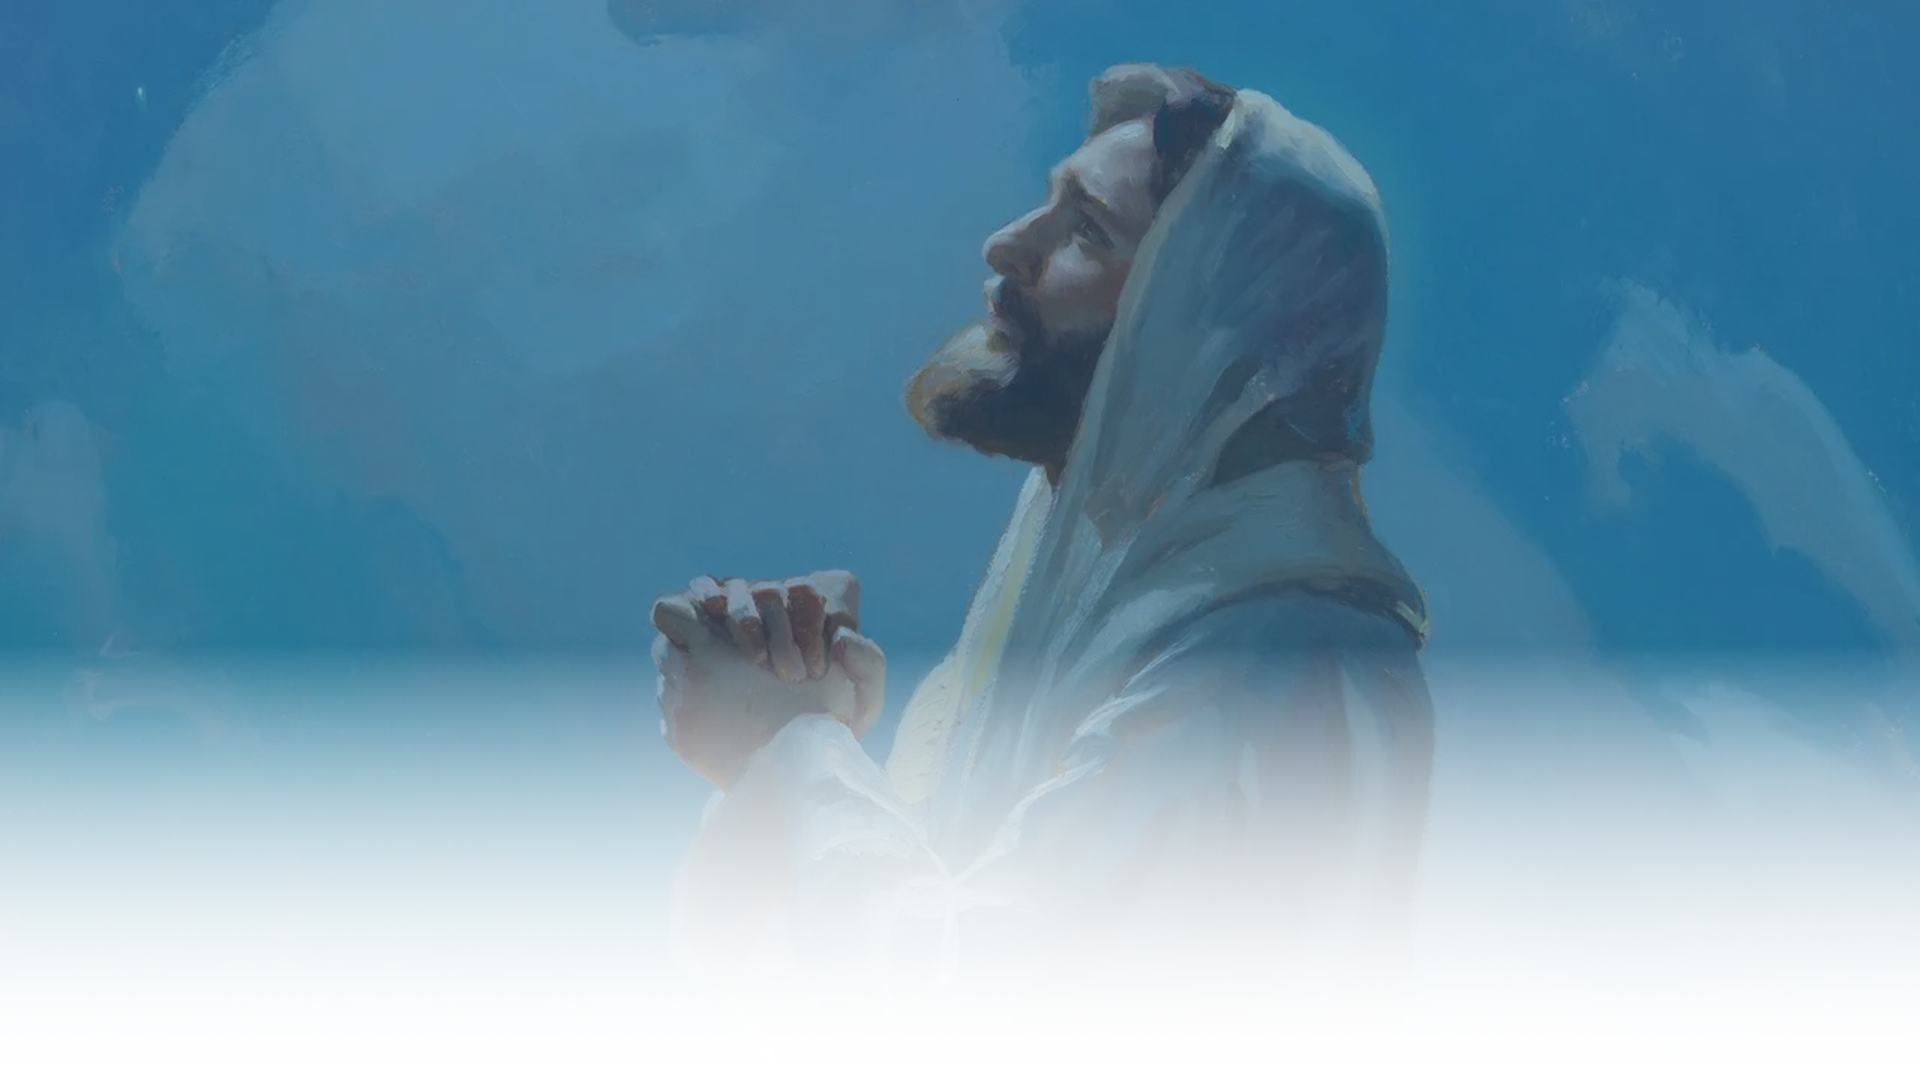
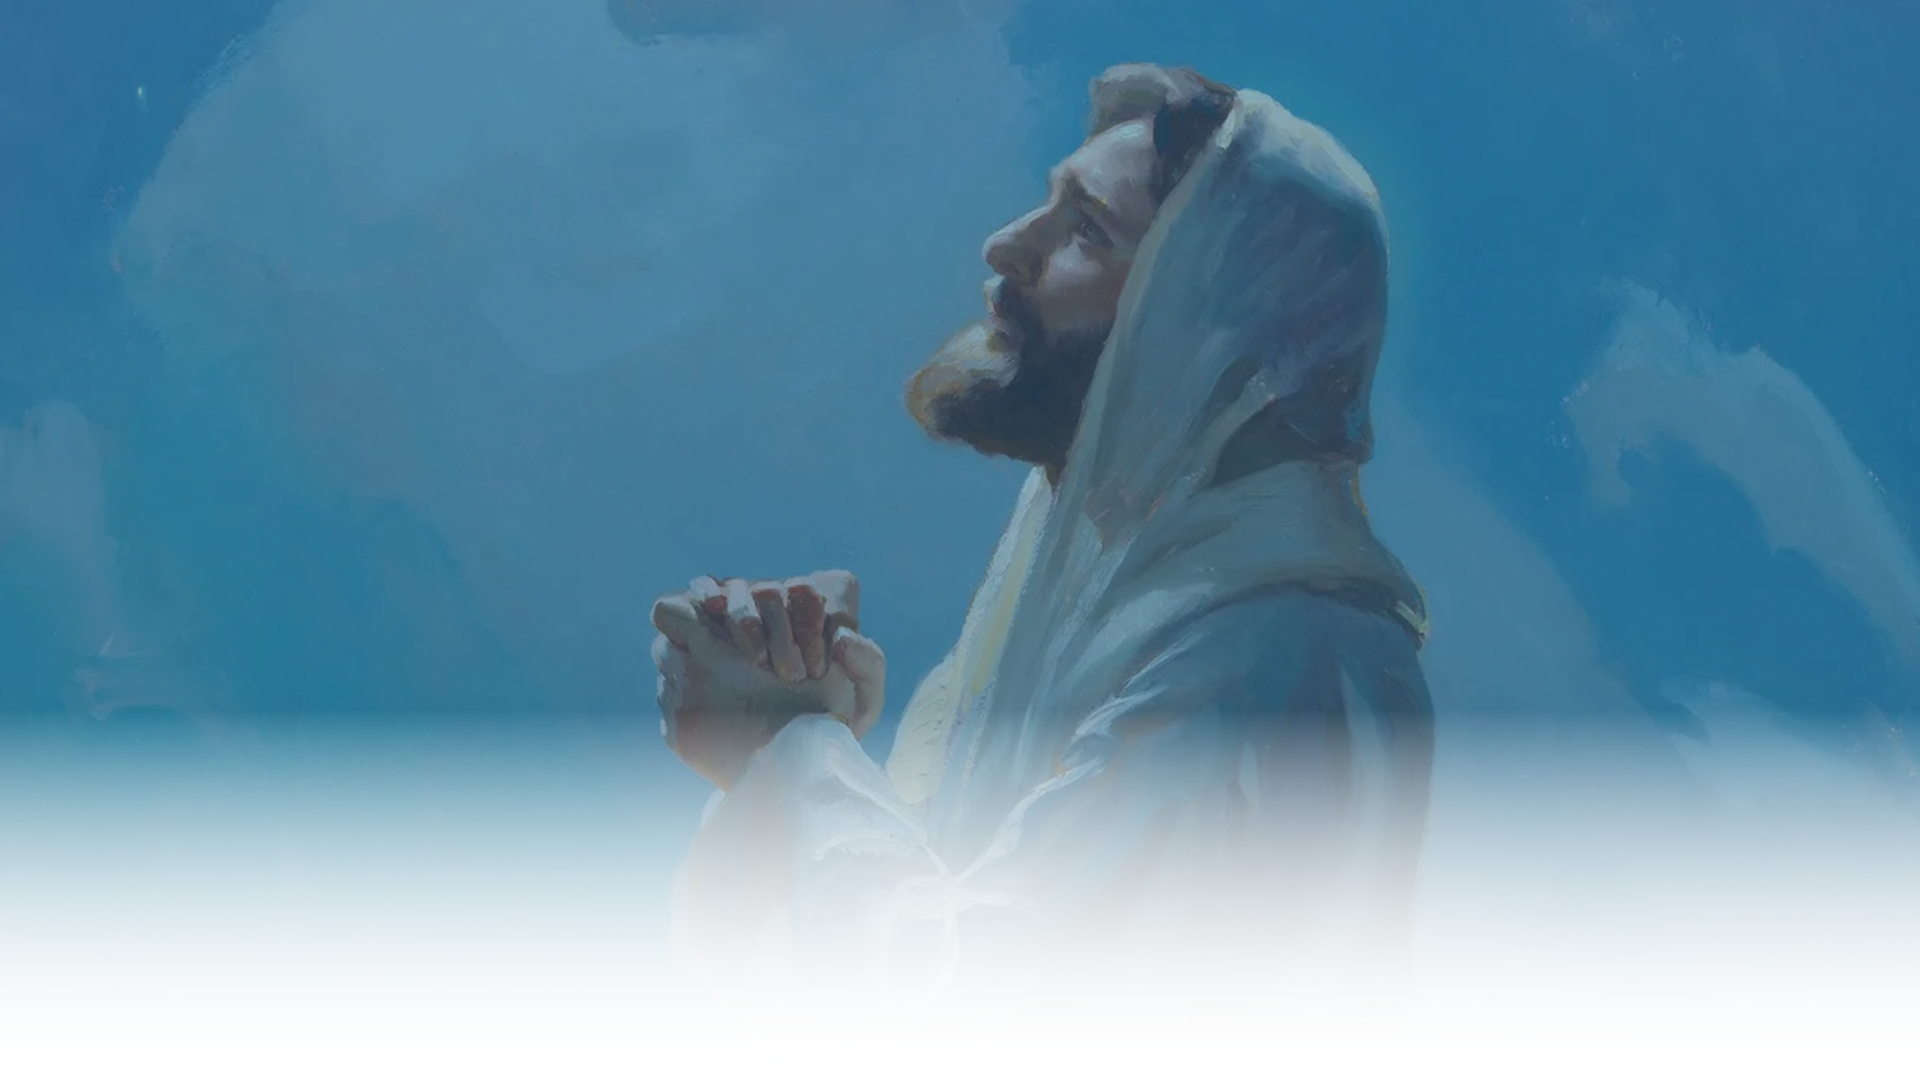
boton wsp agregado a index

Changed region(s): [[0.0, 0.6111, 1.0, 0.7944]]

diff --git a/index.html b/index.html
@@ -39,9 +39,7 @@
     <link rel="stylesheet" href="styles.css">
     ========================================================================
   -->
-  <style>
 
-  </style>
 </head>
 <body class="bg-slate-50 text-slate-800 font-sans min-h-screen flex flex-col justify-between">
 
@@ -106,10 +104,10 @@
       <a href="#" class="mobile-link text-amber-300 flex items-center gap-3">
         <span>Inicio</span>
       </a>
-      <a href="#seminario" class="mobile-link hover:text-amber-300 transition-colors flex items-center gap-3">
+      <a href="seminario.html" class="mobile-link hover:text-amber-300 transition-colors flex items-center gap-3">
         <span>Seminarios (14-17)</span>
       </a>
-      <a href="#instituto" class="mobile-link hover:text-amber-300 transition-colors flex items-center gap-3">
+      <a href="instituto.html" class="mobile-link hover:text-amber-300 transition-colors flex items-center gap-3">
         <span>Institutos (18-35)</span>
       </a>
       <a href="recursos.html" class="mobile-link hover:text-amber-300 transition-colors flex items-center gap-3">
@@ -126,6 +124,36 @@
       <p class="mt-1">Área Sudamérica Sur</p>
     </div>
   </aside>
+
+    <!-- 
+    ========================================================================
+    COMPONENTE: Boton de WHATSAPP
+    ========================================================================
+  -->
+
+  
+<a href="https://wa.me/5491122520286?text=Hola, quisiera más información acerca de los cursos de  Seminario e Insitituto" 
+     target="_blank" 
+     rel="noopener noreferrer" 
+     aria-label="Contactar por WhatsApp" 
+     class="fixed bottom-6 right-6 z-50 flex items-center justify-center w-14 h-14 bg-emerald-500 hover:bg-emerald-600 text-white rounded-full shadow-lg shadow-emerald-500/30 hover:shadow-emerald-500/60 hover:scale-110 active:scale-95 transition-all duration-300 group">
+    
+    <!-- Anillo con efecto pulso de fondo -->
+    <span class="absolute inline-flex h-full w-full rounded-full bg-emerald-400 opacity-30 group-hover:animate-ping"></span>
+
+    <!-- Icono de WhatsApp -->
+    <svg class="w-7 h-7 fill-current relative z-10" viewBox="0 0 24 24">
+      <path d="M.057 24l1.687-6.163c-1.041-1.804-1.588-3.849-1.587-5.946.003-6.556 5.338-11.891 11.893-11.891 3.181.001 6.167 1.24 8.413 3.488 2.245 2.248 3.481 5.236 3.48 8.414-.003 6.557-5.338 11.892-11.893 11.892-1.99-.001-3.951-.5-5.688-1.448l-6.305 1.654zm6.597-3.807c1.676.995 3.276 1.591 5.392 1.592 5.448 0 9.886-4.434 9.889-9.885.002-5.462-4.415-9.89-9.881-9.892-5.452 0-9.887 4.434-9.889 9.884-.001 2.225.651 3.891 1.746 5.634l-.999 3.648 3.742-.981zm11.387-5.464c-.074-.124-.272-.198-.57-.347-.297-.149-1.758-.868-2.031-.967-.272-.099-.47-.149-.669.149-.198.297-.768.967-.941 1.165-.173.198-.347.223-.644.074-.297-.149-1.255-.462-2.39-1.475-.883-.788-1.48-1.761-1.653-2.059-.173-.297-.018-.458.13-.606.134-.133.297-.347.446-.521.151-.172.2-.296.3-.495.099-.198.05-.372-.025-.521-.075-.148-.669-1.611-.916-2.206-.242-.579-.487-.501-.669-.51l-.57-.01c-.198 0-.52.074-.792.372s-1.04 1.016-1.04 2.479 1.065 2.876 1.213 3.074c.149.198 2.095 3.2 5.076 4.487.709.306 1.263.489 1.694.626.712.226 1.36.194 1.872.118.571-.085 1.758-.719 2.006-1.413.248-.695.248-1.29.173-1.414z"/>
+    </svg>
+
+    <!-- Tooltip emergente superior al hacer Hover -->
+    <span class="absolute bottom-full mb-3 hidden group-hover:block bg-slate-800 text-slate-200 text-xs font-medium py-1.5 px-3 rounded-lg shadow-md whitespace-nowrap border border-slate-700">
+      Mandanos un whatsapp
+      <span class="absolute top-full right-5 border-4 border-transparent border-t-slate-800"></span>
+    </span>
+  </a>
+
+  
 
   <!-- 
     ========================================================================
@@ -148,6 +176,8 @@
       </p>
 
     </div>
+
+
     <!-- 
     ========================================================================
     COMPONENTE: FORMULARIO DE PREINSCRIPCIÓN
@@ -158,8 +188,8 @@
     
     <!-- Encabezado de la Tarjeta del Formulario -->
     <div class="official-background-1 text-white p-8 text-center">
-      <h2 class="text-2xl sm:text-3xl font-extrabold mb-2">Formulario de Inscripción</h2>
-      <p class="text-blue-200 text-sm">Completa tus datos para iniciar tu proceso en Seminario. Un líder o maestro de tu estaca se contactará contigo.</p>
+      <h2 class="text-2xl sm:text-3xl font-extrabold mb-2">Formulario de contacto</h2>
+      <p class="text-blue-200 text-sm">Completa tus datos para iniciar tu proceso en Seminario o Instituto. Un líder o maestro de tu localidad se contactará contigo.</p>
     </div>
 
     <!-- Formulario Real conectado a Web3Forms -->
@@ -232,7 +262,7 @@
               type="text" 
               id="estaca-barrio" 
               name="Estaca y Barrio" 
-              placeholder="Ej. Estaca Mendoza, Barrio Central"
+              placeholder="Ej. Ciudad de Buenos Aires, Barrio Central"
               class="w-full px-4 py-2.5 rounded-xl border border-slate-300 focus:ring-2 focus:ring-brandBlue focus:border-brandBlue outline-none text-sm transition-all"
             >
           </div>
@@ -243,7 +273,7 @@
               id="contacto" 
               name="Información de Contacto" 
               required 
-              placeholder="Ej. +54 9 11 1234-5678 o correo@ejemplo.com"
+              placeholder="Ej. 11 1234-5678 o correo@ejemplo.com"
               class="w-full px-4 py-2.5 rounded-xl border border-slate-300 focus:ring-2 focus:ring-brandBlue focus:border-brandBlue outline-none text-sm transition-all"
             >
           </div>
@@ -256,7 +286,7 @@
           type="submit" 
           class="w-full official-background-1 text-white font-bold py-4 rounded-xl shadow-lg transition-all transform hover:-translate-y-0.5 text-center flex items-center justify-center gap-2"
         >
-          <span>Enviar preinscripción</span>
+          <span>Enviar</span>
           <svg class="w-5 h-5" fill="none" stroke="currentColor" stroke-width="2.5" viewBox="0 0 24 24">
             <path stroke-linecap="round" stroke-linejoin="round" d="M9 5l7 7-7 7"/>
           </svg>
@@ -484,16 +514,38 @@
     COMPONENTE: FOOTER (PIE DE PÁGINA)
     ========================================================================
   -->
-  <footer class="bg-slate-900 text-slate-400 py-8 border-t border-slate-800 text-xs text-center">
-    <div class="max-w-7xl mx-auto px-4 space-y-3">
-      <p class="font-medium text-slate-300">
-        Esta página web está siendo desarrollada para Seminarios e Institutos de Religión - Área Sudamérica Sur.
-      </p>
-      <p>
-        © 2026. Todos los derechos reservados. No es una publicación oficial de La Iglesia de Jesucristo de los Santos de los Últimos Días.
-      </p>
+ <footer class="bg-slate-900 text-slate-400 py-8 border-t border-slate-800 text-xs text-center official-background-1">
+  <div class="max-w-7xl mx-auto px-4 space-y-4">
+    
+    <!-- Redes Sociales -->
+    <div class="flex justify-center items-center gap-4">
+      <!-- WhatsApp -->
+      <a href="https://wa.me/5491122520286?text=Hola, quisiera más información acerca de los cursos de  Seminario e Insitituto" target="_blank" rel="noopener noreferrer" aria-label="WhatsApp" 
+         class="p-2 rounded-full bg-slate-800 text-slate-400 hover:text-white hover:bg-emerald-600 transition-all duration-200">
+        <svg class="w-5 h-5 fill-current" viewBox="0 0 24 24">
+          <path d="M.057 24l1.687-6.163c-1.041-1.804-1.588-3.849-1.587-5.946.003-6.556 5.338-11.891 11.893-11.891 3.181.001 6.167 1.24 8.413 3.488 2.245 2.248 3.481 5.236 3.48 8.414-.003 6.557-5.338 11.892-11.893 11.892-1.99-.001-3.951-.5-5.688-1.448l-6.305 1.654zm6.597-3.807c1.676.995 3.276 1.591 5.392 1.592 5.448 0 9.886-4.434 9.889-9.885.002-5.462-4.415-9.89-9.881-9.892-5.452 0-9.887 4.434-9.889 9.884-.001 2.225.651 3.891 1.746 5.634l-.999 3.648 3.742-.981zm11.387-5.464c-.074-.124-.272-.198-.57-.347-.297-.149-1.758-.868-2.031-.967-.272-.099-.47-.149-.669.149-.198.297-.768.967-.941 1.165-.173.198-.347.223-.644.074-.297-.149-1.255-.462-2.39-1.475-.883-.788-1.48-1.761-1.653-2.059-.173-.297-.018-.458.13-.606.134-.133.297-.347.446-.521.151-.172.2-.296.3-.495.099-.198.05-.372-.025-.521-.075-.148-.669-1.611-.916-2.206-.242-.579-.487-.501-.669-.51l-.57-.01c-.198 0-.52.074-.792.372s-1.04 1.016-1.04 2.479 1.065 2.876 1.213 3.074c.149.198 2.095 3.2 5.076 4.487.709.306 1.263.489 1.694.626.712.226 1.36.194 1.872.118.571-.085 1.758-.719 2.006-1.413.248-.695.248-1.29.173-1.414z"/>
+        </svg>
+      </a>
+
+      <!-- Instagram -->
+      <a href="https://www.instagram.com/seisudamericasur?igsh=MXd3czJ1Y2k0b2p1NA==" target="_blank" rel="noopener noreferrer" aria-label="Instagram" 
+         class="p-2 rounded-full bg-slate-800 text-slate-400 hover:text-white hover:bg-gradient-to-tr hover:from-amber-500 hover:via-rose-500 hover:to-purple-600 transition-all duration-200">
+        <svg class="w-5 h-5 fill-current" viewBox="0 0 24 24">
+          <path d="M12 2.163c3.204 0 3.584.012 4.85.07 3.252.148 4.771 1.691 4.919 4.919.058 1.265.069 1.645.069 4.849 0 3.205-.012 3.584-.069 4.849-.149 3.225-1.664 4.771-4.919 4.919-1.266.058-1.644.07-4.85.07-3.204 0-3.584-.012-4.849-.07-3.26-.149-4.771-1.699-4.919-4.92-.058-1.265-.07-1.644-.07-4.849 0-3.204.013-3.583.07-4.849.149-3.227 1.664-4.771 4.919-4.919 1.266-.057 1.645-.069 4.849-.069zm0-2.163c-3.259 0-3.667.014-4.947.072-4.358.2-6.78 2.618-6.98 6.98-.059 1.281-.073 1.689-.073 4.948 0 3.259.014 3.668.072 4.948.2 4.358 2.618 6.78 6.98 6.98 1.281.058 1.689.072 4.948.072 3.259 0 3.668-.014 4.948-.072 4.354-.2 6.782-2.618 6.979-6.98.059-1.28.073-1.689.073-4.948 0-3.259-.014-3.667-.072-4.947-.196-4.354-2.617-6.78-6.979-6.98-1.281-.059-1.69-.073-4.949-.073zm0 5.838c-3.403 0-6.162 2.759-6.162 6.162s2.759 6.163 6.162 6.163 6.162-2.759 6.162-6.163c0-3.403-2.759-6.162-6.162-6.162zm0 10.162c-2.209 0-4-1.79-4-4 0-2.209 1.791-4 4-4s4 1.791 4 4c0 2.21-1.791 4-4 4zm6.406-11.845c-.796 0-1.441.645-1.441 1.44s.645 1.44 1.441 1.44c.795 0 1.439-.645 1.439-1.44s-.644-1.44-1.439-1.44z"/>
+        </svg>
+      </a>
     </div>
-  </footer>
+
+    <!-- Texto Informativo -->
+    <p class="font-medium text-slate-300">
+      Esta página web está siendo desarrollada para Seminarios e Institutos de Religión - Área Sudamérica Sur.
+    </p>
+    <p>
+      © 2026. Todos los derechos reservados. No es una publicación oficial de La Iglesia de Jesucristo de los Santos de los Últimos Días.
+    </p>
+
+  </div>
+</footer>
 
   <!-- 
     ========================================================================

diff --git a/instituto.html b/instituto.html
@@ -136,21 +136,21 @@
   -->
   <div 
     id="menu-overlay" 
-    class="fixed inset-0 bg-slate-900/60 z-40 hidden backdrop-blur-sm transition-opacity duration-300 opacity-0"
+    class="fixed inset-0 bg-slate-900/60 z-40 hidden backdrop-blur-sm transition-opacity duration-300 opacity-0 "
   ></div>
 
   <aside 
     id="mobile-menu" 
-    class="fixed top-0 right-0 h-full w-72 bg-brandBlue text-white shadow-2xl z-40 transform translate-x-full transition-transform duration-300 ease-in-out flex flex-col justify-between p-6 pt-24"
+    class="fixed top-0 right-0 h-full w-72 bg-brandBlue text-white shadow-2xl z-40 transform translate-x-full transition-transform duration-300 ease-in-out flex flex-col justify-between p-6 pt-24 official-background-1"
   >
     <nav class="flex flex-col space-y-6 text-lg font-semibold">
-      <a href="#" class="mobile-link text-amber-300 flex items-center gap-3">
+      <a href="/" class="mobile-link hover:text-amber-300 transition-colors flex items-center gap-3">
         <span>Inicio</span>
       </a>
-      <a href="#seminario" class="mobile-link hover:text-amber-300 transition-colors flex items-center gap-3">
+      <a href="seminario.html" class="mobile-link hover:text-amber-300 transition-colors flex items-center gap-3">
         <span>Seminarios (14-17)</span>
       </a>
-      <a href="#instituto" class="mobile-link hover:text-amber-300 transition-colors flex items-center gap-3">
+      <a href="#" class="mobile-link text-amber-300 flex items-center gap-3">
         <span>Institutos (18-35)</span>
       </a>
       <a href="recursos.html" class="mobile-link hover:text-amber-300 transition-colors flex items-center gap-3">
@@ -187,7 +187,7 @@
         Estudia las escrituras, encuentra respuestas para tus decisiones de vida, fortalece tu fe en Jesucristo y conecta con una comunidad que comparte tus mismos valores.
         </p>
         <div class="flex flex-col sm:flex-row gap-4 justify-center">
-            <a href="#inscripcion" class="bg-brandGold hover:bg-brandGold-dark text-white font-extrabold text-base px-8 py-4 rounded-xl shadow-lg transition-all transform hover:-translate-y-0.5 text-center">
+            <a href="#inscripcion" class="bg-brandGold hover:bg-brandGold-dark text-white font-extrabold text-base px-8 py-4 rounded-xl shadow-lg transition-all transform hover:-translate-y-0.5 text-center hero-button-instituto">
             Inscribirme en un curso
             </a>
         </div>

diff --git a/seminario.html b/seminario.html
@@ -185,12 +185,13 @@
       <p class="text-lg sm:text-xl text-slate-200 max-w-2xl mx-auto mb-8 leading-relaxed">
         Al asistir a Seminario, sentirán el amor de Dios, encontrarán respuestas en su vida, profundizarán su testimonio de Jesucristo, desarrollarán fortaleza emocional y espiritual, se prepararán para el templo, la misión, la formación académica y una futura familia,
       </p>
-      <div class="flex flex-col sm:flex-row gap-4 justify-center">
+      <div class="flex flex-col sm:flex-row gap-4 justify-center margin-auto">
         <a 
           href="#inscripcion" 
-          class="official-background-2 text-white-dark font-extrabold text-base px-8 py-4 rounded-xl shadow-lg hover:shadow-amber-500/20 transition-all transform hover:-translate-y-0.5 text-center"
+          
+          class="official-background-2 text-white-dark font-extrabold text-base px-6 py-4 rounded-xl shadow-lg hover:shadow-amber-200/100 transition-all transform hover:-translate-y-0.5 text-center hero-button-seminario"
         >
-          Preinscribirme ahora
+          Solicitar más información
         </a>
         
       </div>

diff --git a/styles/main.css b/styles/main.css
@@ -71,7 +71,7 @@ html,body{
   flex-direction: column;
   background-image: url(../images/jesucristo-hero.png);
   background-size: cover;
-  height: 100vh;
+  background-position: center center;
   width: 100vw;
   overflow: hidden;
   margin-bottom: 2rem;
@@ -89,3 +89,4 @@ html,body{
 .ico-programa:hover{
   color: red;
 }
+

diff --git a/styles/seminario.css b/styles/seminario.css
@@ -29,9 +29,14 @@
   display: flex;
   flex-direction: column;
   
-  background-image: url(../images/Clase-6.jpg);
+  background-image: url(../images/Clase-6.png);
   background-size: cover;
   width: 100vw;
   overflow: hidden;
   margin-bottom: 2rem;
+}
+
+
+.hero-button-seminario{
+  margin: auto;
 }

diff --git a/styles/institute.css b/styles/institute.css
@@ -32,3 +32,8 @@ body {
 .btn-primary:hover {
   background-color: var(--brand-gold-dark);
 }
+
+
+.hero-button-instituto{
+  margin: auto;
+}
